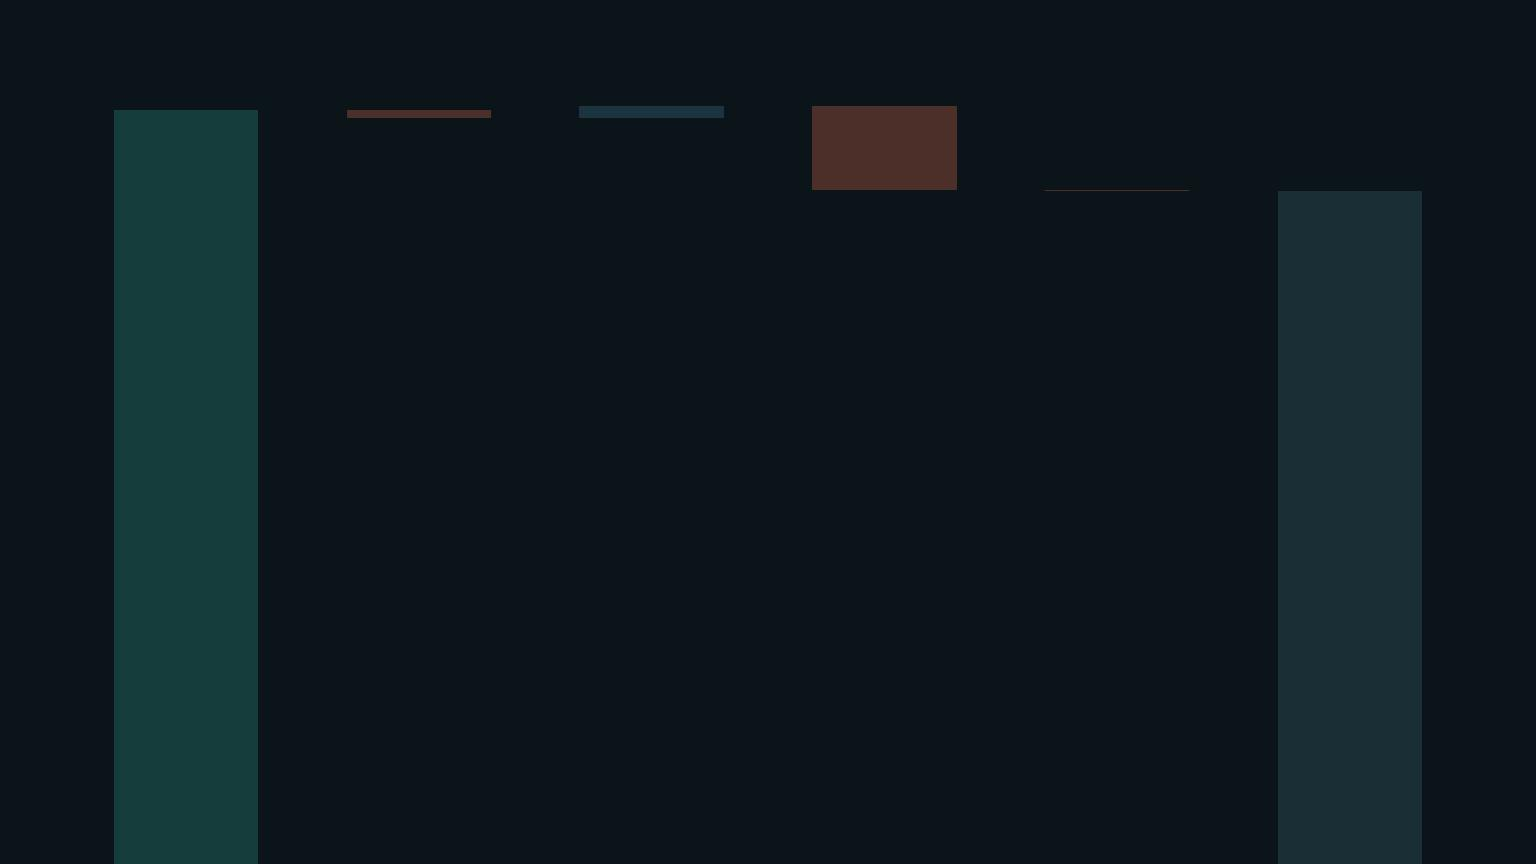
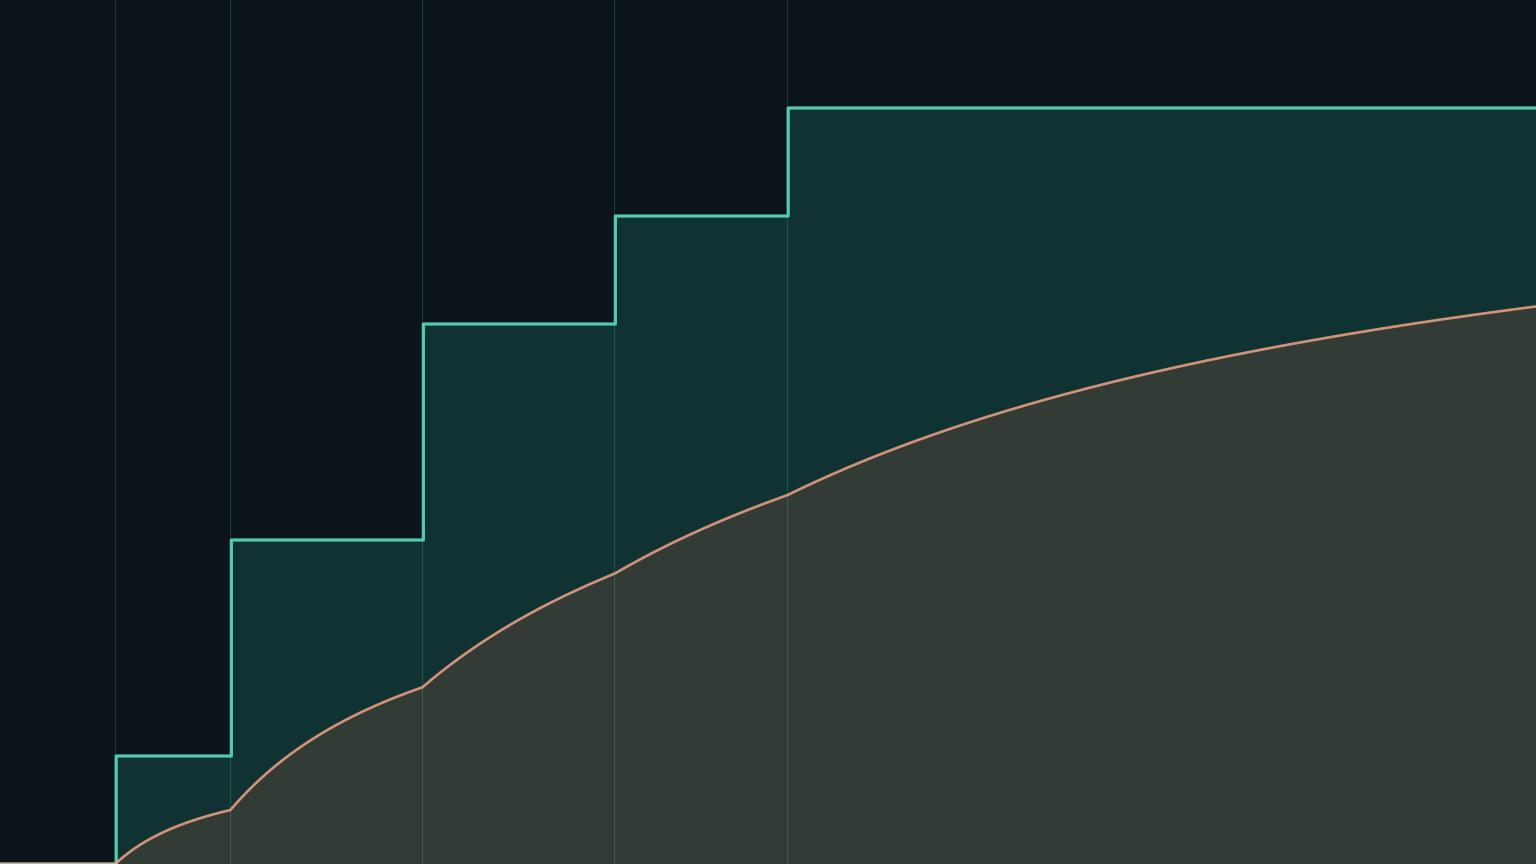
Build hero images from real data; feature the NaqCoDE work
The generated shapes said nothing. Both heroes are now drawn from actual
project data and are legible as charts:

- research: ISEQ realised volatility, 5,243 days from Jan 2003 to Aug 2023,
  with the four crisis windows shaded. The GFC spike is visible, which is
  the point of the page.
- finance: the Tax Year 2025 marginal and effective rate curves from
  payroll/tax.py, with the slab boundaries marked.

A stacked payroll series was tried first for the finance hero and dropped:
stable monthly payroll draws flat horizontal bands with no shape.

The featured badge on /finance now points at the NaqCoDE payroll engine
rather than the month-end pipeline.

diff --git a/src/resources/content.tsx b/src/resources/content.tsx
@@ -60,14 +60,14 @@ const tracks = {
       display: true,
       title: (
         <Row gap="12" vertical="center">
-          <strong className="ml-4">Irish FP&A Portfolio</strong>
+          <strong className="ml-4">NaqCoDE finance function</strong>
           <Line background="brand-alpha-strong" vert height="20" />
           <Text marginRight="4" onBackground="brand-medium">
-            Four live apps
+            Rebuilt in code, 78 tests
           </Text>
         </Row>
       ),
-      href: "/work/month-end-fpa-pipeline",
+      href: "/work/pakistan-payroll-engine",
     },
     hero: "/images/hero-finance.jpg",
     stats: [
